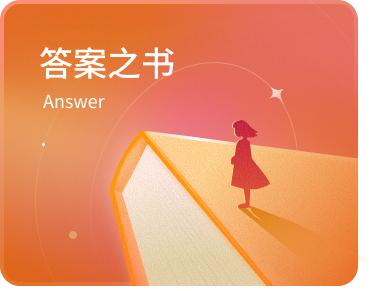
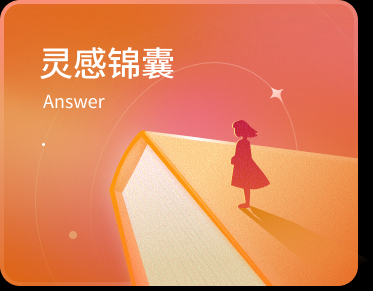
答案之书 → 灵感锦囊：更新功能图标和标题
- 替换首页卡片图 home-card-answer.png（新插画，灵感锦囊/Answer）
- 替换功能内标题 answer-book-title.svg（橙色渐变灵感锦囊四字）
- 更新 CSS .title-img 尺寸(189×44)匹配新 SVG viewBox
- 更新所有 aria-label / alt / title 文字

Changed region(s): [[0.0, 0.0, 1.0, 1.0], [0.0885, 0.1546, 0.4718, 0.2784], [0.0, 0.0, 0.0295, 0.0619]]

diff --git a/mindstation/answer-book/index.html b/mindstation/answer-book/index.html
@@ -3,7 +3,7 @@
 <head>
   <meta charset="UTF-8" />
   <meta name="viewport" content="width=device-width, initial-scale=1, user-scalable=no, viewport-fit=cover" />
-  <title>答案之书 · 心灵驿站</title>
+  <title>灵感锦囊 · 心灵驿站</title>
   <link rel="preconnect" href="https://fonts.googleapis.com" />
   <link rel="preconnect" href="https://fonts.gstatic.com" crossorigin />
   <link href="https://fonts.googleapis.com/css2?family=Noto+Sans+SC:wght@400;500;700&family=Cormorant+Garamond:ital,wght@1,400;1,500&display=swap" rel="stylesheet" />
@@ -33,7 +33,7 @@
       <!-- ========== S1 入口菜单 ========== -->
       <section id="screen-menu" class="screen screen--menu">
         <button class="card card--primary" type="button" data-action="enter">
-          <img class="card__bg" src="assets/menu-card-primary.png" alt="答案之书" draggable="false" />
+          <img class="card__bg" src="assets/menu-card-primary.png" alt="灵感锦囊" draggable="false" />
         </button>
         <div class="card card--ghost"></div>
         <div class="card card--ghost"></div>
@@ -60,7 +60,7 @@
         </div>
 
         <div class="title-glow" aria-hidden="true"></div>
-        <img class="title-img" src="assets/answer-book-title.svg" alt="答案之书" />
+        <img class="title-img" src="assets/answer-book-title.svg" alt="灵感锦囊" />
         <span class="title-spark title-spark--1" aria-hidden="true"></span>
         <span class="title-spark title-spark--2" aria-hidden="true"></span>
         <span class="title-spark title-spark--3" aria-hidden="true"></span>

diff --git a/mindstation/index.html b/mindstation/index.html
@@ -23,7 +23,7 @@
   <section class="scene scene-home" data-scene="home">
     <img class="home-bg" src="daily-words/assets/illustrations/home-bg.png" alt="" draggable="false">
     <button type="button" class="home-portal-back" id="portalBack" aria-label="返回主页">‹</button>
-    <button type="button" class="hcard hcard-1" data-card="answer" aria-label="答案之书"></button>
+    <button type="button" class="hcard hcard-1" data-card="answer" aria-label="灵感锦囊"></button>
     <img class="hcard-1-cover" src="answer-book/home-card-answer.png" alt="" draggable="false">
     <button type="button" class="hcard hcard-2" data-card="star" aria-label="每日星语"></button>
     <button type="button" class="hcard hcard-3" data-card="personality" aria-label="性格认知"></button>
@@ -164,9 +164,9 @@
     </div>
   </section>
 
-  <!-- ============== 9. 答案之书 answer（集成 v1/answer-book 子项目，1640×348 同尺寸 iframe） ============== -->
+  <!-- ============== 9. 灵感锦囊 answer（集成 v1/answer-book 子项目，1640×348 同尺寸 iframe） ============== -->
   <section class="scene scene-answer" data-scene="answer" hidden>
-    <iframe class="ans-frame" id="ansFrame" title="答案之书" src="about:blank" frameborder="0"></iframe>
+    <iframe class="ans-frame" id="ansFrame" title="灵感锦囊" src="about:blank" frameborder="0"></iframe>
     <button type="button" class="ans-back" data-go="home" aria-label="返回首页">
       <svg viewBox="0 0 12 22" width="10" height="18"><path d="M11 1 L1 11 L11 21" fill="none" stroke="currentColor" stroke-width="2.5" stroke-linecap="round" stroke-linejoin="round"/></svg>
     </button>

diff --git a/mindstation/answer-book/style.css b/mindstation/answer-book/style.css
@@ -341,8 +341,8 @@ body[data-state="depleted"] .books--open .book--small-front {
    ======================================================== */
 .title-img {
   position: absolute;
-  left: 374px; top: 153px;
-  width: 197px; height: 52px;
+  left: 374px; top: 156px;
+  width: 189px; height: 44px;
   z-index: 4;
   filter:
     drop-shadow(0 0 10px rgba(255,200,140,.32))